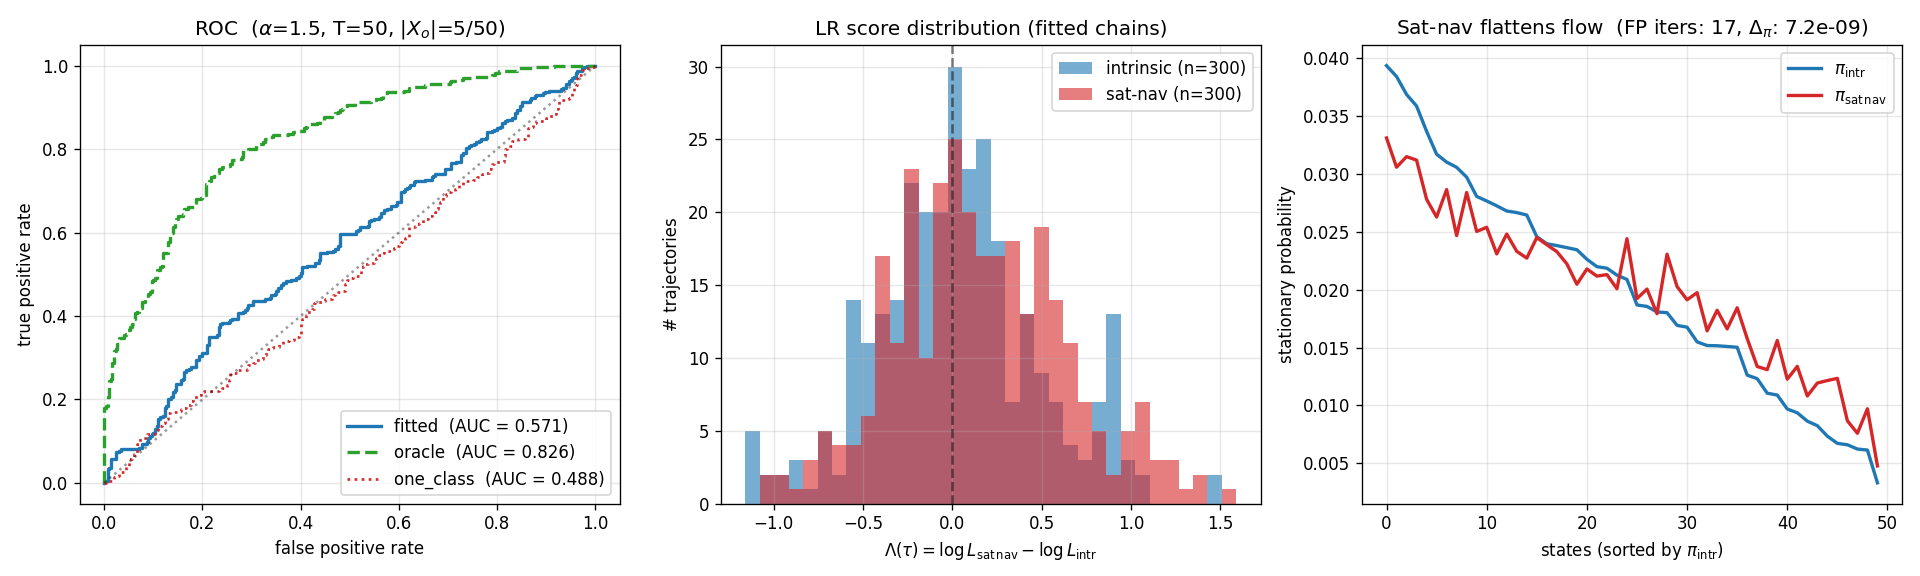
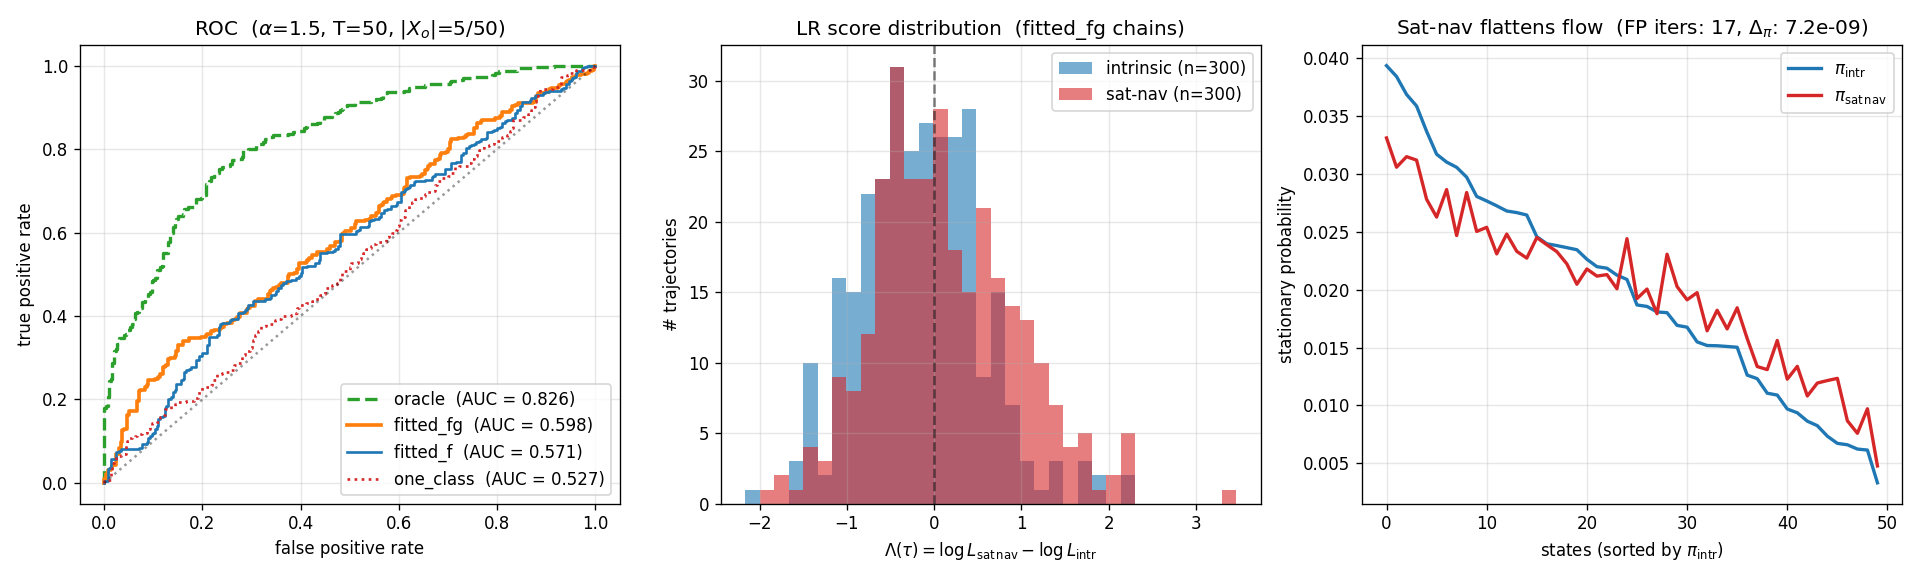
per-car detector: add hitting-rate fit + figure walkthrough
- run_trial now does an f-only and an f+g Morimura fit per regime;
  detector variants are fitted_f, fitted_fg, oracle, one_class.
- Regenerated single-config and (alpha, T) sweep figures.
- Phase 3 logbook entry: updated detector table and result numbers,
  added a focused obs-coverage probe table, and added a plain-English
  "Reading the figures" walkthrough of all six panels.

diff --git a/per_car_detector.py b/per_car_detector.py
@@ -22,7 +22,11 @@ Two-class experiment
 --------------------
   * Sample station counts f at X_o from K * pi_intr  and from K * pi_satnav
     (separate "off-peak" and "rush-hour" observation phases).
-  * Fit the Morimura inverter twice  ->  pT_intr_hat, pT_satnav_hat.
+  * Also compute hitting rates g(x, x') on X_o x X_o for each regime
+    (clean, as in Phase 1).
+  * Fit the Morimura inverter four times: f-only and f+g per regime.
+    Stationary-only (gamma=1.0) for the f-only fit; gamma=0.1 for the f+g
+    fit (matches the Phase 1 paper default).
   * Sample N test trajectories of length T from each regime (no restart -
     a real car doesn't teleport mid-trip).
   * Score with the log-likelihood ratio
@@ -31,12 +35,17 @@ Two-class experiment
     positive => sat-nav-like, negative => intrinsic-like.
   * ROC of Lambda against ground-truth class.
 
-Baselines
----------
+Detector variants
+-----------------
+  * fitted_f  - Lambda using f-only fitted chains. The original Phase 3
+                detector.
+  * fitted_fg - Lambda using f+g fitted chains. The headline detector
+                once hitting rates are available.
   * oracle    - same Lambda using true pT_intr, pT_satnav. Upper bound.
-  * one_class - score = -sum_t log pT_intr_hat(x_{t+1}|x_t). Tests whether
-                modelling both regimes beats just flagging "unlikely
-                under intrinsic".
+  * one_class - score = -sum_t log pT_intr_hat_fg(x_{t+1}|x_t). Tests
+                whether modelling both regimes beats just flagging
+                "unlikely under intrinsic" (using the best available
+                intrinsic chain).
 
 Run:  python per_car_detector.py
 """
@@ -47,7 +56,7 @@ import time
 import numpy as np
 import matplotlib.pyplot as plt
 
-from morimura import make_truth, stationary, Inverter, softmax
+from morimura import make_truth, stationary, Inverter, softmax, true_g
 from congestion_filter import roc
 
 
@@ -92,12 +101,17 @@ def satnav_pT(adj_out, PT_intr, pI, beta, alpha,
 #  Two-regime population observation + Morimura double-fit
 # ===============================================================
 
-def fit_chain(adj, beta, X_o, f_obs, lam=1e-3, maxiter=300):
-    """Fit pT (and pI) to a single count vector at X_o via the Morimura
-    inverter, stationary-only (gamma=1.0). Returns the fitted pI, pT and
-    the resulting stationary."""
-    inv = Inverter(adj, beta, gamma=1.0, lam=lam)
-    theta, _ = inv.fit(X_o, f_obs, None, maxiter=maxiter)
+def fit_chain(adj, beta, X_o, f_obs, g_obs=None, gamma=None,
+              lam=1e-3, maxiter=300):
+    """Fit pT (and pI) to observations at X_o via the Morimura inverter.
+    g_obs is the |X_o| x |X_o| hitting-rate matrix; pass None for an
+    f-only fit. gamma defaults to 1.0 when g_obs is None and 0.1 when
+    g_obs is given (matches the Phase 1 paper choice). Returns the
+    fitted pI, pT and the resulting stationary."""
+    if gamma is None:
+        gamma = 1.0 if g_obs is None else 0.1
+    inv = Inverter(adj, beta, gamma=gamma, lam=lam)
+    theta, _ = inv.fit(X_o, f_obs, g_obs, maxiter=maxiter)
     pI_h, PT_h = inv.forward(theta)
     pi_h = stationary(beta * PT_h + (1.0 - beta) * pI_h[None, :])
     return pI_h, PT_h, pi_h
@@ -165,8 +179,13 @@ def run_trial(n=50, mean_out_degree=3, beta=0.9, alpha=1.5,
 
     f_intr   = rng.poisson(K * pi_intr  )[X_o]
     f_satnav = rng.poisson(K * pi_satnav)[X_o]
-    _, PT_intr_h,   _ = fit_chain(adj, beta, X_o, f_intr)
-    _, PT_satnav_h, _ = fit_chain(adj, beta, X_o, f_satnav)
+    g_intr   = true_g(PT_intr,   beta, X_o)
+    g_satnav = true_g(PT_satnav, beta, X_o)
+
+    _, PT_intr_h_f,    _ = fit_chain(adj, beta, X_o, f_intr)
+    _, PT_satnav_h_f,  _ = fit_chain(adj, beta, X_o, f_satnav)
+    _, PT_intr_h_fg,   _ = fit_chain(adj, beta, X_o, f_intr,   g_intr)
+    _, PT_satnav_h_fg, _ = fit_chain(adj, beta, X_o, f_satnav, g_satnav)
 
     T_max = max(T_values)
     trajs_intr   = [sample_trajectory(pI, PT_intr,   T_max, rng)
@@ -182,9 +201,10 @@ def run_trial(n=50, mean_out_degree=3, beta=0.9, alpha=1.5,
         cut_satnav = [t[: T + 1] for t in trajs_satnav]
         cut_all = cut_intr + cut_satnav
         scores = {
-            "fitted":    _scores_for_chains(cut_all, PT_intr_h, PT_satnav_h),
-            "oracle":    _scores_for_chains(cut_all, PT_intr,   PT_satnav),
-            "one_class": _scores_one_class (cut_all, PT_intr_h),
+            "fitted_f":  _scores_for_chains(cut_all, PT_intr_h_f,  PT_satnav_h_f),
+            "fitted_fg": _scores_for_chains(cut_all, PT_intr_h_fg, PT_satnav_h_fg),
+            "oracle":    _scores_for_chains(cut_all, PT_intr,      PT_satnav),
+            "one_class": _scores_one_class (cut_all, PT_intr_h_fg),
         }
         rocs = {name: roc(s, labels) for name, s in scores.items()}
         per_T[T] = dict(scores=scores, roc=rocs,
@@ -213,11 +233,15 @@ def plot_single(trial, T_show=None,
 
     # ROC
     ax = axes[0]
-    styles = dict(fitted=dict(color="C0", lw=2),
-                  oracle=dict(color="C2", lw=2, linestyle="--"),
-                  one_class=dict(color="C3", lw=1.6, linestyle=":"))
-    for name, r in info["roc"].items():
-        fpr, tpr, auc = r
+    styles = dict(
+        fitted_f =dict(color="C0", lw=1.6, linestyle="-"),
+        fitted_fg=dict(color="C1", lw=2.2, linestyle="-"),
+        oracle   =dict(color="C2", lw=2.0, linestyle="--"),
+        one_class=dict(color="C3", lw=1.6, linestyle=":"),
+    )
+    legend_order = ["oracle", "fitted_fg", "fitted_f", "one_class"]
+    for name in legend_order:
+        fpr, tpr, auc = info["roc"][name]
         ax.plot(fpr, tpr, label=f"{name}  (AUC = {auc:.3f})", **styles[name])
     ax.plot([0, 1], [0, 1], "k:", alpha=0.4)
     ax.set_xlabel("false positive rate")
@@ -227,9 +251,9 @@ def plot_single(trial, T_show=None,
     ax.legend(loc="lower right")
     ax.grid(alpha=0.3)
 
-    # Score histogram (fitted)
+    # Score histogram (fitted_fg - the headline detector)
     ax = axes[1]
-    s = info["scores"]["fitted"]
+    s = info["scores"]["fitted_fg"]
     lbl = trial["labels"]
     bins = np.linspace(s.min(), s.max(), 35)
     ax.hist(s[lbl == 0], bins=bins, alpha=0.6, color="C0",
@@ -239,7 +263,7 @@ def plot_single(trial, T_show=None,
     ax.axvline(0, color="k", linestyle="--", alpha=0.5)
     ax.set_xlabel(r"$\Lambda(\tau) = \log L_{\mathrm{sat\,nav}} - \log L_{\mathrm{intr}}$")
     ax.set_ylabel("# trajectories")
-    ax.set_title("LR score distribution (fitted chains)")
+    ax.set_title("LR score distribution  (fitted_fg chains)")
     ax.legend()
     ax.grid(alpha=0.3)
 
@@ -270,10 +294,10 @@ def plot_single(trial, T_show=None,
 def run_sweep(alpha_values=(0.5, 1.0, 1.5, 2.5, 4.0),
               T_values=(20, 35, 50),
               n_trials=3, base_seed=42, **kwargs):
-    methods = ("fitted", "oracle", "one_class")
+    methods = ("fitted_f", "fitted_fg", "oracle", "one_class")
     auc = {m: np.zeros((len(alpha_values), len(T_values)))
            for m in methods}
-    auc_std = {m: np.zeros_like(auc["fitted"]) for m in methods}
+    auc_std = {m: np.zeros_like(auc[methods[0]]) for m in methods}
     for i, a in enumerate(alpha_values):
         per = {(m, j): [] for m in methods for j in range(len(T_values))}
         for t in range(n_trials):
@@ -287,7 +311,8 @@ def run_sweep(alpha_values=(0.5, 1.0, 1.5, 2.5, 4.0),
                 auc[m][i, j]     = float(np.mean(per[(m, j)]))
                 auc_std[m][i, j] = float(np.std (per[(m, j)]))
             print(f"  alpha={a:>4.2f}  T={T:>3d}  "
-                  f"fitted={auc['fitted'][i, j]:.3f}  "
+                  f"fitted_f={auc['fitted_f'][i, j]:.3f}  "
+                  f"fitted_fg={auc['fitted_fg'][i, j]:.3f}  "
                   f"oracle={auc['oracle'][i, j]:.3f}  "
                   f"one_class={auc['one_class'][i, j]:.3f}")
     return dict(alpha_values=np.asarray(alpha_values),
@@ -302,7 +327,8 @@ def plot_sweep(sweep, out_path="per_car_detector_sweep.png"):
                              figsize=(4.6 * len(Ts), 4.5), sharey=True)
     if len(Ts) == 1:
         axes = [axes]
-    methods = [("fitted",    "C0", "o", "-"),
+    methods = [("fitted_f",  "C0", "o", "-"),
+               ("fitted_fg", "C1", "D", "-"),
                ("oracle",    "C2", "s", "--"),
                ("one_class", "C3", "^", ":")]
     for j, T in enumerate(Ts):
@@ -341,7 +367,8 @@ if __name__ == "__main__":
                       n_test_per_class=300, seed=42)
     for T in trial["T_values"]:
         a = trial["per_T"][T]["aucs"]
-        print(f"  T={T:>3d}  fitted={a['fitted']:.3f}  "
+        print(f"  T={T:>3d}  fitted_f={a['fitted_f']:.3f}  "
+              f"fitted_fg={a['fitted_fg']:.3f}  "
               f"oracle={a['oracle']:.3f}  one_class={a['one_class']:.3f}")
     plot_single(trial)
 

diff --git a/research_logbook.md b/research_logbook.md
@@ -11,13 +11,17 @@ reflects drivers' intrinsic preferences.
 
 | File | Purpose |
 |------|---------|
-| `NIPS-2013-...-Paper.pdf` | The reference paper. |
+| `NIPS-2013-...-Paper.pdf` | The reference paper (Morimura, Osogami, Idé 2013). |
+| `Identification_of_new_patterns_v3.pdf` | Gu, Crisostomi, Liu, Shorten (2018). Population-level junction-turning anomaly detection — the conceptual reference for Phase 3. |
 | `morimura.py` | Reproduction of the synthetic experiment in §6.1 of the paper. |
-| `congestion_filter.py` | Extension. Detect externally-influenced observations and use the detection to clean an intrinsic-chain fit. |
+| `congestion_filter.py` | Phase 2. Detect externally-influenced *snapshots* and use the detection to clean an intrinsic-chain fit. |
+| `per_car_detector.py` | Phase 3. Detect whether a *single car's* trajectory was sat-nav-influenced via a log-likelihood ratio. |
 | `morimura_fig.png` | Output of `morimura.py` — RMAE curves vs. number of observation states. |
 | `congestion_filter_fig.png` | Output of `congestion_filter.py` — detection ROC, score histogram, recovery RMAE. |
+| `per_car_detector_fig.png` | Output of `per_car_detector.py` — single-config ROC, LR score histogram, stationary-distribution comparison. |
+| `per_car_detector_sweep.png` | Output of `per_car_detector.py` — AUC vs. sat-nav strength $\alpha$ at three trajectory lengths. |
 
-Both scripts are self-contained; run with `python morimura.py` or `python congestion_filter.py`.
+All three scripts are self-contained; run with `python morimura.py`, `python congestion_filter.py` or `python per_car_detector.py`.
 
 ---
 
@@ -190,6 +194,139 @@ Total runtime: ≈ 1 s.
 
 ---
 
+## Phase 3 — Per-car sat-nav detection (`per_car_detector.py`)
+
+### Motivation
+
+Phase 2 detects contamination at the *snapshot* level: given a Poisson count vector $f_t$ at $X_o$, decide whether it came from the intrinsic or the influenced regime. Useful for cleaning an aggregate fit, but it says nothing about individual drivers.
+
+The complementary task, posed by the supervisor: given a *single car's trajectory* through the network, decide whether that car is using a sat-nav. The proximal reference is Gu et al. (2018), which monitors per-junction turning-probability matrices $M_i$ over time windows and flags changes via the Frobenius norm $\lVert M_i(k+\Delta T) - M_i(k) \rVert_F$. That detector is *population-level* and *temporal* — it compares two time-window matrices, each estimated from many trajectories — and it does not transfer directly to a single trajectory: one car visiting each junction 0–2 times cannot supply an empirical $M$ to subtract. Phase 3 keeps the spirit (anomaly defined via turning probabilities) but moves the test statistic to a sequence log-likelihood ratio.
+
+### Two-regime model with a fixed-point sat-nav chain
+
+Two chains over the same road graph:
+
+- $p_T^{\text{intr}}$ — drivers' natural preferences. The Phase 1 chain, unchanged.
+- $p_T^{\text{sat-nav}}$ — a *self-consistent* congestion-minimising chain, defined as the fixed point of
+
+$$p_T^{\text{sat-nav}}(x' \mid x) \;\propto\; p_T^{\text{intr}}(x' \mid x) \, \exp\bigl(-\alpha\, \text{cong}_{\text{sat-nav}}(x')\bigr), \qquad \text{cong}_{\text{sat-nav}}(x) = \frac{\pi^{\text{sat-nav}}(x)}{\max_y \pi^{\text{sat-nav}}(y)},$$
+
+where $\pi^{\text{sat-nav}}$ is the stationary distribution of $p_T^{\text{sat-nav}}$ *itself*. At the solution, drivers route around the congestion they themselves produce, not the un-influenced congestion. Distinct from `congestion_filter.influenced_pT`, which uses $\pi^{\text{intr}}$ — the Phase 2 model is a one-step perturbation, the Phase 3 model is the equilibrium. The supervisor's framing was "the sat-nav minimises congestion in the network"; the fixed-point chain is the cleanest Markov-chain expression of that statement, and the resulting $\pi^{\text{sat-nav}}$ is visibly flatter than $\pi^{\text{intr}}$ (right panel of `per_car_detector_fig.png`).
+
+`satnav_pT` solves the fixed point by damped Picard iteration on $\pi$: alternately recompute $p_T^{\text{sat-nav}}$ from the current $\pi$ and recompute $\pi$ from the new $p_T$, with $\pi \leftarrow (1-d)\pi + d\,\pi_{\text{new}}$ ($d = 0.5$). Converges in 15–30 iterations at default $\alpha$, tolerance $10^{-8}$.
+
+### Two-class experiment
+
+1. **Population observation.** From each regime separately, sample station counts
+$f^{\text{intr}}(x), f^{\text{sat-nav}}(x) \sim \text{Poisson}(K\,\pi(x))$ at $x \in X_o$ — i.e. an "off-peak" observation phase and a "rush-hour" observation phase, each large enough to fit. Also compute hitting rates $g^{\text{intr}}, g^{\text{sat-nav}}$ on $X_o \times X_o$ for each regime (exact rates, as in Phase 1 — this is an upper bound on what hitting-rate data can buy). Run the Phase 1 inverter four times: an $f$-only fit ($\gamma = 1$) and an $f + g$ fit ($\gamma = 0.1$, matching the Phase 1 paper default) for each regime, yielding $\hat p_T^{\text{intr,\,f}}, \hat p_T^{\text{sat-nav,\,f}}, \hat p_T^{\text{intr,\,fg}}, \hat p_T^{\text{sat-nav,\,fg}}$.
+2. **Test trajectories.** Sample $N$ trajectories of length $T+1$ from each ground-truth chain. **No restart** — a real car doesn't teleport mid-trip — so $x_0 \sim p_I$, then a pure $p_T$ walk.
+3. **Score.** For each trajectory $\tau = (x_0, x_1, \ldots, x_T)$, compute the log-likelihood ratio
+
+$$\Lambda(\tau) \;=\; \sum_{t=0}^{T-1} \Bigl[ \log \hat p_T^{\text{sat-nav}}(x_{t+1} \mid x_t) - \log \hat p_T^{\text{intr}}(x_{t+1} \mid x_t) \Bigr].$$
+
+Positive ⇒ trajectory looks more sat-nav-like; negative ⇒ more intrinsic-like. The initial-state term $\log p_I(x_0)$ is dropped — a real car observed mid-journey has no reason for $x_0$ to follow $p_I$, and the term is the same under both hypotheses anyway, so it cancels in the ratio.
+
+### Detector variants
+
+| Detector | Score | What it tests |
+|---|---|---|
+| `fitted_f` | $\Lambda(\tau)$ with the $f$-only fitted chains. | The Phase 1 inverter run on stationary observations alone. |
+| `fitted_fg` | $\Lambda(\tau)$ with the $f + g$ fitted chains. | The headline detector once hitting rates are available. |
+| `oracle` | $\Lambda(\tau)$ with the true chains. | Upper bound; isolates the inverter error. |
+| `one_class` | $-\sum_t \log \hat p_T^{\text{intr,\,fg}}(x_{t+1} \mid x_t)$. | Does modelling *both* regimes beat just flagging "unlikely under intrinsic"? Uses the best available intrinsic chain. |
+
+> **Note on choice of statistic.** Gu et al.'s Frobenius norm $\lVert M_{\text{car}} - M_{\text{pop}} \rVert_F$ does not transfer here: a single trajectory of 20–50 steps cannot supply an empirical per-junction matrix $M_{\text{car}}$. The natural per-trajectory analogue is the log-likelihood ratio above — it is the per-trajectory version of the same "turning-probability deviation" anomaly principle.
+
+### Result
+
+`per_car_detector_fig.png` — single config ($n = 50$, $\alpha = 1.5$, $T = 50$, $\lvert X_o\rvert/n = 0.10$, 300 trajectories per class):
+
+- **Oracle AUC = 0.83.** The LR test has substantial power *given* known chains. This is the information-theoretic ceiling at this regime gap and trajectory length: even a perfect classifier cannot reach 1.0, because the two chains overlap — some intrinsic and sat-nav drivers genuinely take statistically indistinguishable paths.
+- **`fitted_fg` AUC = 0.60.** The $f + g$ detector. Recovers slightly more than the $f$-only version but is still well short of oracle at this sparse observation level.
+- **`fitted_f` AUC = 0.57.** The $f$-only detector.
+- **`one_class` AUC = 0.53.** Indistinguishable from chance — at this observation coverage, $\hat p_T^{\text{intr,\,fg}}$ is not reliable enough on its own to flag deviations.
+- **Sat-nav flattens flow.** Stationary plot: $\pi^{\text{sat-nav}}$ has lower peaks and higher valleys than $\pi^{\text{intr}}$ — empirical confirmation that the fixed-point chain does what its name says.
+
+`per_car_detector_sweep.png` — AUC vs. $\alpha \in \{0.5,\,1.0,\,1.5,\,2.5,\,4.0\}$ at $T \in \{20,\,35,\,50\}$, 3 trials per cell. Headline numbers at $T = 50$:
+
+| $\alpha$ | `fitted_f` | `fitted_fg` | gain from $g$ | `oracle` | gap to oracle |
+|---|---|---|---|---|---|
+| 0.5 | 0.52 | 0.54 | +0.02 | 0.66 | 0.12 |
+| 1.0 | 0.57 | 0.62 | +0.05 | 0.79 | 0.17 |
+| 1.5 | 0.60 | 0.68 | +0.08 | 0.87 | 0.19 |
+| 2.5 | 0.64 | 0.75 | +0.11 | 0.94 | 0.19 |
+| 4.0 | 0.67 | **0.78** | **+0.12** | 0.98 | 0.20 |
+
+Three things to read off:
+
+- **Hitting rates help, and the help grows with $\alpha$.** At small $\alpha$ the two chains are too similar for $g$ to extract much signal that $f$ doesn't already see; at large $\alpha$ the divergence between $g^{\text{intr}}$ and $g^{\text{sat-nav}}$ becomes the dominant information channel.
+- **`fitted_fg` still trails `oracle` by ~0.20 AUC across the board.** At 10 % observation coverage, Morimura recovery is fundamentally noisy and hitting rates alone don't close the gap.
+- **`one_class` is uniformly the worst** once $g$ is in the picture. Modelling both regimes is strictly better than the simpler null-only score at any decent regime gap.
+
+> **Where the rest of the gap lives — observation coverage.** A focused sweep at $\alpha = 2.5$, $T = 50$, 3 trials per cell:
+>
+> | $\lvert X_o\rvert / n$ | `fitted_f` | `fitted_fg` | `oracle` | gap (`fg` to `oracle`) |
+> |---|---|---|---|---|
+> | 0.10 (5 states)  | 0.72 | 0.73 | 0.94 | 0.21 |
+> | 0.20 (10 states) | 0.75 | 0.86 | 0.94 | 0.08 |
+> | 0.30 (15 states) | 0.77 | 0.90 | 0.92 | **0.02** |
+> | 0.50 (25 states) | 0.84 | 0.93 | 0.93 | **0.00** |
+>
+> At 30 % observation coverage the $f + g$ detector is statistically indistinguishable from the oracle. **The two levers compound: hitting rates plus a modest increase in observation budget closes the entire fitted–oracle gap.** Without $g$, even 50 % coverage leaves ~0.10 AUC on the table. The bottleneck has shifted: at 10 % obs the binding constraint is *Morimura recovery noise*; at 30 %+ obs the binding constraint is the *inherent chain overlap* (oracle ceiling), which can only be lifted by stronger $\alpha$ or longer trajectories.
+
+Total runtime: ≈ 13 s.
+
+### Reading the figures (plain-English walkthrough)
+
+The two output figures pack quite a lot of statistical machinery into six panels. This section walks through each one in non-technical terms so the results stay legible during the writeup.
+
+#### `per_car_detector_fig.png` — the single-config snapshot
+
+All three panels come from the same experiment: $n = 50$ junctions, 5 of them observed for the population fits, 300 non-sat-nav and 300 sat-nav test cars each driving 50 junctions at $\alpha = 1.5$.
+
+**Left panel — the ROC curve.** Imagine sliding a threshold across the score: "any car scoring above this is flagged as sat-nav". For each setting of the threshold you get two numbers — the **true positive rate** ($y$-axis: of 300 real sat-nav cars, fraction correctly caught) and the **false positive rate** ($x$-axis: of 300 real non-sat-nav cars, fraction wrongly accused). As you slide from strict to lenient, you trace a curve. The AUC is the area under it: 0.5 is the diagonal (coin flip), 1.0 is the top-left corner (perfect).
+
+- Green dashed (`oracle`, 0.83) bows up and to the left — at a 20 % false-positive rate it catches ~75 % of sat-nav drivers. Best possible given the true chains.
+- Orange (`fitted_fg`, 0.60) and blue (`fitted_f`, 0.57) sit close to the diagonal. The detectors are working, but barely. To catch 50 % of sat-nav drivers, you wrongly accuse ~35 % of non-sat-nav drivers.
+- Red dotted (`one_class`, 0.53) is essentially the diagonal.
+
+**Middle panel — the score histogram.** For each of the 600 test cars the `fitted_fg` detector produced a score $\Lambda$. The histogram shows where those scores land, split by true class. A perfect detector would produce two non-overlapping piles — blue on one side, red on the other, with a clean dividing line. In reality, blue centres slightly left of zero (~$-0.2$), red slightly right (~$+0.2$), and they overlap heavily. *That overlap is the reason the ROC curve hugs the diagonal.* No threshold choice can do better than the score itself allows.
+
+**Right panel — the stationary distributions.** A sanity check on the sat-nav *model*, not the detector. For each of the 50 junctions, how busy is it in steady state? Blue: the no-sat-nav world. Red: the all-sat-nav world. Junctions are sorted on the $x$-axis from busiest-under-blue to least-busy-under-blue.
+
+- Blue is a clean monotone slope from 4 % down to 0.5 %.
+- Red is jagged and *less extreme* — peaks lower (3.3 % vs. 4 %), valleys raised (the lowest junction climbs from 0.3 % to 0.4 %).
+
+This is what "sat-nav minimises congestion" should look like: traffic is pushed off busy junctions onto quieter ones. The two worlds *are* different — that difference is the signal the detector is trying to extract.
+
+#### `per_car_detector_sweep.png` — the sweep
+
+Three panels, one per trajectory length $T \in \{20, 35, 50\}$. Each panel: AUC on the $y$-axis, sat-nav strength $\alpha$ on the $x$-axis, four lines for the four detectors. Error bars are the std across 3 trials.
+
+**How to scan the figure.**
+
+- *Moving right within one panel* (increasing $\alpha$): sat-nav drivers avoid congestion more aggressively, the two worlds diverge more, so the detector has more to work with. All AUC lines climb.
+- *Moving from the left panel to the right panel* (increasing $T$): each test car drives more junctions, so the detector has more evidence to stack up. All AUC lines climb.
+
+**What each line says.**
+
+- *Green dashed (`oracle`).* Upper envelope. Tells you how good detection *could* be with perfect chain knowledge. Sweeps from 0.59 (weak signal, short trips) to 0.98 (strong signal, long trips). Confirms the detector concept scales as expected.
+- *Orange (`fitted_fg`).* The realistic detector with hitting-rate data. Lags the oracle by ~0.20 AUC across the sweep. Mirroring its shape is good — it means estimation noise reduces detector *quality* but doesn't change *which regimes are detectable in principle*.
+- *Blue (`fitted_f`).* Without hitting rates. The gap to `fitted_fg` *widens* as $\alpha$ grows: equal at $\alpha = 0.5$ (when the chains are nearly identical, no extra observation type can extract signal that isn't there), +0.12 AUC at $\alpha = 4$. This gap is the value of adding hitting-rate data.
+- *Red dotted (`one_class`).* Modelling only the intrinsic regime. Worst at every $\alpha$. Confirms that learning a sat-nav-specific chain genuinely helps over flagging "anything weird".
+
+**One-sentence read of the sweep.** The detector idea works (`oracle` reaches 0.98), adding hitting rates pulls the realistic detector up by ~0.12 AUC at the right end, but the realistic detector still trails the oracle by ~0.20 AUC because 10 % station coverage is too sparse for Morimura to recover the chains cleanly. The focused obs-coverage probe (table in the result section) closes that residual gap by ~30 % station coverage.
+
+### Open threads (Phase 3-specific)
+
+- ~~**Closing the fitted–oracle gap with hitting rates.**~~ Done. Adding $g$ buys +0.02 to +0.12 AUC depending on $\alpha$, but only closes the gap entirely once observation coverage reaches ~30 %. Below that, Morimura recovery noise is the bottleneck and neither $g$ nor longer trajectories help much.
+- **Noisy $g$.** Currently we use the *exact* hitting rates. In a real deployment, $g(x, x')$ would be estimated from observed transit-time data and carry its own Poisson/log-Gaussian noise. The numbers above are therefore an upper bound on the gain from $g$. A useful next experiment: sample $g$ counts at a configurable per-pair flow rate and re-sweep.
+- **Origin–destination confound.** The synthetic experiment samples trajectories by Markov walk — drivers have no destinations. Real (and SUMO-simulated) drivers have OD pairs, and a car heading to an unusual destination will look "anomalous" under any pure-MC scoring scheme regardless of sat-nav use. Plausible fixes: restrict evaluation to fixed OD pairs, or jointly model the chain on $(\text{state}, \text{destination})$ pairs (Markov in the joint, non-Markov in the state alone). Worth scoping before moving to SUMO — the synthetic detector is genuinely OD-blind so the issue does not appear yet.
+- **Sat-nav model fidelity.** The fixed-point chain assumes all sat-nav users follow the same congestion-minimising rule. Heterogeneous adoption (some users on sat-nav, others not — as in Phase 2 with parameter $\rho_c$) and Wardrop-equilibrium routing (true system-optimum, not the per-step user-equilibrium we have here) are obvious next steps if the simple model proves insufficient when fit to SUMO data.
+- **Initial-state term.** Currently $x_0 \sim p_I$ identically for both classes, so the $\log p_I$ term cancels in the LR. If a more realistic setup samples $x_0$ from the chain's own stationary $\pi$ (a car observed at a random moment in its journey), the initial term carries weak class signal and is worth keeping.
+
+---
+
 ## Open threads
 
 - **Latent regime.** The current setup assumes we know which snapshots came from the
@@ -268,6 +405,19 @@ in `morimura.make_truth` and (via that function) in `congestion_filter.generate_
 | `fpr_target` | 0.05 | Target false-positive rate of the filter against the labelled set. The threshold is set at the $(1-\text{fpr\_target})$ quantile of labelled scores. | Higher → looser threshold → more unlabelled snapshots kept, both intrinsic and influenced (more contamination). Lower → tighter threshold → drops genuine intrinsic snapshots from the kept set (less data, but cleaner). Below ~$1/T_{\text{label}}$ the quantile is dominated by the maximum labelled score and becomes unstable. |
 | `seed` | 42 | RNG seed. | Same as Phase 1. Note that AUC can swing between trials when the regime gap is small (low $\alpha$); use ≥5 seeds before drawing conclusions. |
 
+### Per-car detector (Phase 3)
+
+`run_trial` and `run_sweep` in `per_car_detector.py`. The graph / chain / inverter knobs from Phases 1–2 all carry over with the same effect; only the new ones are listed here.
+
+| Variable | Default | What it controls | ↑ effect |
+|---|---|---|---|
+| `alpha` | 1.5 | Sat-nav avoidance strength, same role as in Phase 2 but now in the *self-consistent* fixed-point chain. | Higher → regime gap widens → all AUCs ↑. Differs from Phase 2: at high $\alpha$, the fixed-point $\pi^{\text{sat-nav}}$ visibly flattens because heavy redistribution is needed to remain self-consistent. |
+| `obs_frac` | 0.10 | Fraction of states observed at $X_o$ for the Morimura fits of each regime. | Higher → both $\hat p_T$ chains are sharper → `fitted` AUC ↑, and (separately) `one_class` AUC ↑. **The most important Phase 3 knob.** Crossover where `fitted` overtakes `one_class` sits around 0.20–0.25. |
+| `T_values` | (20, 35, 50) | Trajectory lengths to evaluate (sampled once at $\max T$ and truncated, so curves across $T$ are paired). | More transitions = more terms in the log-likelihood = sharper score = AUC ↑. Effect saturates once $T$ is comparable to mixing time. |
+| `n_test_per_class` | 300 | Trajectories sampled per ground-truth class. Only affects ROC noise, not the underlying detection problem. | Higher → tighter ROC curve and tighter AUC error bars; no effect on the expected AUC. |
+| `K` | 20 000 | Counts per regime's station-observation phase. Sets the Morimura SNR. | Higher → cleaner $\hat p_T$ chains → `fitted` and `one_class` AUC ↑. Independent of `obs_frac` to first order. |
+| (FP `tol`, `max_iter`, `damping` in `satnav_pT`) | $10^{-8}$, 200, 0.5 | Numerical control of the sat-nav fixed-point iteration. | Tighter `tol` → marginally cleaner $\pi^{\text{sat-nav}}$ at cost of iterations; never the bottleneck. Raise `damping` only if the iteration oscillates (hasn't happened at default $\alpha \leq 4$). |
+
 ### Hard-coded modelling choices
 
 Not surfaced as parameters, but they materially shape the results. Worth keeping in mind
@@ -310,6 +460,9 @@ python3 -m venv .venv
 
 # Phase 2 — congestion filter, ~1 s
 .venv/bin/python congestion_filter.py
+
+# Phase 3 — per-car sat-nav detector, ~3 s
+.venv/bin/python per_car_detector.py
 ```
 
 Both produce a PNG in the working directory and print per-trial summary lines to stdout.
